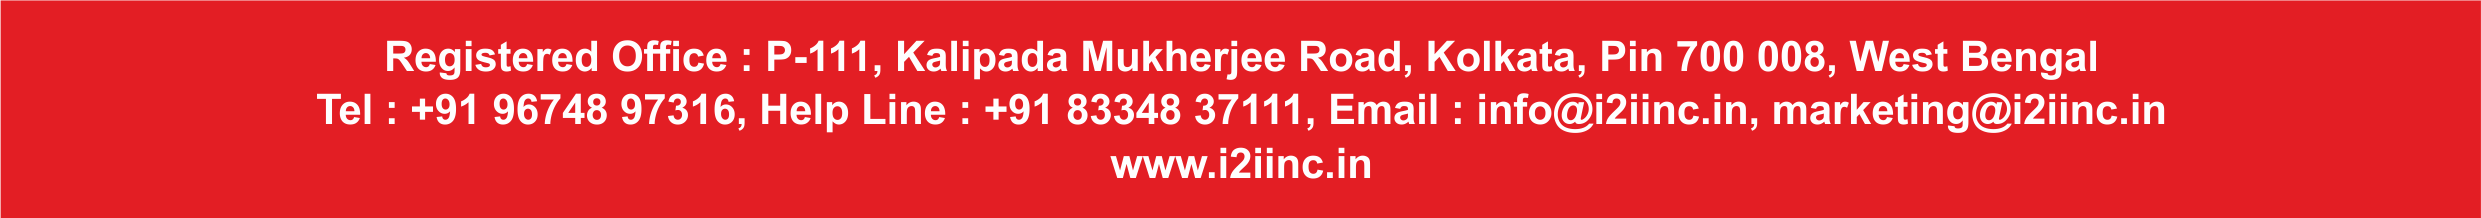
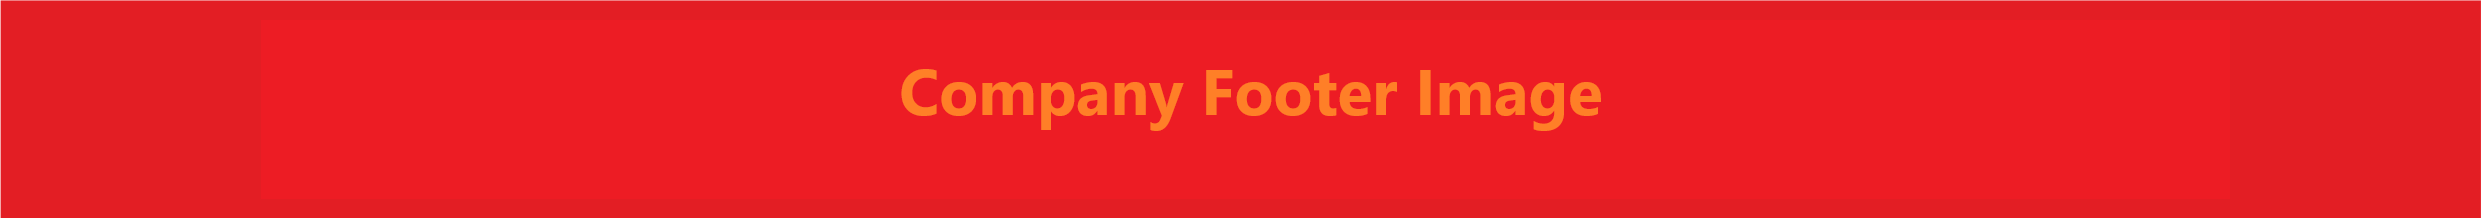
Pre Go - Live changes

Changed region(s): [[0.1241, 0.1651, 0.869, 0.6055], [0.4345, 0.6606, 0.5586, 0.8257]]

diff --git a/Bill_Software/corporate/business/app/Update_Designation.aspx.cs b/Bill_Software/corporate/business/app/Update_Designation.aspx.cs
@@ -145,7 +145,7 @@ namespace Bill_Software.corporate.business.app
             if (lblEmpId.Text != "")
             {
 
-                string query = "update tbl_Designation set Home=@Home,home1=@home1,settings=@settings,Dashboard=@Dashboard,Data_Mastering=@Data_Mastering,master_State=@master_State,master_city=@master_city,AddIndustry=@AddIndustry,PaymentPhase=@PaymentPhase,AddPrimaryService=@AddPrimaryService,PrimaryServiceTerms=@PrimaryServiceTerms,productparent=@productparent,product_master=@product_master,newproductparent=@newproductparent,newproduct_master=@newproduct_master,Service_master=@Service_master,Vat_master=@Vat_master,Service_Tax_Master=@Service_Tax_Master,Expenses_Head=@Expenses_Head,Vendor=@Vendor,New_vendor=@New_vendor,View_vendor=@View_vendor,Delete_vendor=@home1,Purches_exting_vendor=@Purches_exting_vendor,View_purches=@View_purches,seartch_purtch=@seartch_purtch,Delete_purtches=@Delete_purtches,Purchess_payment=@Purchess_payment,add_payment_purchess=@add_payment_purchess,View_purchess_payment=@View_purchess_payment,Seartch_purchess_payments=@Seartch_purchess_payments,Delete_purches_payment=@Delete_purches_payment,Client=@Client,New_client=@New_client,View_client=@View_client,Delete_client=@Delete_client,Representative=@Representative,AddFactory=@AddFactory,Quotatio=@Quotatio,Create_quotation=@Create_quotation,View_quotation=@View_quotation,Seartch_quotation=@Seartch_quotation,Delete_Quotation=@Delete_Quotation,Edit_quatation=@Edit_quatation,challan=@challan,add_chalan=@add_chalan,View_chalan=@View_chalan,seartch_chalan=@seartch_chalan,Delete_chalan=@Delete_chalan,proforma=@proforma,Add_proforma=@Add_proforma,View_proforma=@View_proforma,Seartch_proforma=@Seartch_proforma,Delete_proforma=@Delete_proforma,Invoice=@Invoice,Add_invoice=@Add_invoice,View_Invoice=@View_Invoice,seartch_invoice=@seartch_invoice,Delete_invoice=@Delete_invoice,Block_invoice=@Block_invoice,Payment=@Payment,add_payment=@add_payment,View_payment=@View_payment,seartch_payment=@seartch_payment,Delete_payment=@Delete_payment,Epencess=@Epencess,general_expences=@general_expences,patty_cash_expences=@patty_cash_expences,view_expencess_head=@view_expencess_head,view_patty_cash_expenses=@view_patty_cash_expenses,Delete_general_expencess=@Delete_general_expencess,Delete_patty_cash_expenses=@Delete_patty_cash_expenses,Reports=@Reports,Payment_due=@Payment_due,Purchess_due=@Purchess_due,PurchaseRequisition=@PurchaseRequisition,RequisitionManual=@RequisitionManual,RequisitionManualView=@RequisitionManualView,RequisitionManualSearch=@RequisitionManualSearch,RequisitionManualDelete=@RequisitionManualDelete,AddUser=@AddUser,Users=@Users,ViewUser=@ViewUser,SetQuatation=@SetQuatation,ProformaMail=@ProformaMail,InvoiceMail=@InvoiceMail,PaymentMail=@PaymentMail,FinalPaymentInvoice=@FinalPaymentInvoice,PaymentsDue=@PaymentsDue where User_Id=@User_Id";
+                string query = "update tbl_Designation set Home=@Home,home1=@home1,settings=@settings,Dashboard=@Dashboard,Data_Mastering=@Data_Mastering,master_State=@master_State,master_city=@master_city,AddIndustry=@AddIndustry,PaymentPhase=@PaymentPhase,AddPrimaryService=@AddPrimaryService,PrimaryServiceTerms=@PrimaryServiceTerms,productparent=@productparent,product_master=@product_master,newproductparent=@newproductparent,newproduct_master=@newproduct_master,Service_master=@Service_master,Vat_master=@Vat_master,Service_Tax_Master=@Service_Tax_Master,Expenses_Head=@Expenses_Head,Vendor=@Vendor,New_vendor=@New_vendor,View_vendor=@View_vendor,Delete_vendor=@Delete_vendor,Purches_exting_vendor=@Purches_exting_vendor,View_purches=@View_purches,seartch_purtch=@seartch_purtch,Delete_purtches=@Delete_purtches,Purchess_payment=@Purchess_payment,add_payment_purchess=@add_payment_purchess,View_purchess_payment=@View_purchess_payment,Seartch_purchess_payments=@Seartch_purchess_payments,Delete_purches_payment=@Delete_purches_payment,Client=@Client,New_client=@New_client,View_client=@View_client,Delete_client=@Delete_client,Representative=@Representative,AddFactory=@AddFactory,Quotatio=@Quotatio,Create_quotation=@Create_quotation,View_quotation=@View_quotation,Seartch_quotation=@Seartch_quotation,Delete_Quotation=@Delete_Quotation,Edit_quatation=@Edit_quatation,challan=@challan,add_chalan=@add_chalan,View_chalan=@View_chalan,seartch_chalan=@seartch_chalan,Delete_chalan=@Delete_chalan,proforma=@proforma,Add_proforma=@Add_proforma,View_proforma=@View_proforma,Seartch_proforma=@Seartch_proforma,Delete_proforma=@Delete_proforma,Invoice=@Invoice,Add_invoice=@Add_invoice,View_Invoice=@View_Invoice,seartch_invoice=@seartch_invoice,Delete_invoice=@Delete_invoice,Block_invoice=@Block_invoice,Payment=@Payment,add_payment=@add_payment,View_payment=@View_payment,seartch_payment=@seartch_payment,Delete_payment=@Delete_payment,Epencess=@Epencess,general_expences=@general_expences,patty_cash_expences=@patty_cash_expences,view_expencess_head=@view_expencess_head,view_patty_cash_expenses=@view_patty_cash_expenses,Delete_general_expencess=@Delete_general_expencess,Delete_patty_cash_expenses=@Delete_patty_cash_expenses,Reports=@Reports,Payment_due=@Payment_due,Purchess_due=@Purchess_due,PurchaseRequisition=@PurchaseRequisition,RequisitionManual=@RequisitionManual,RequisitionManualView=@RequisitionManualView,RequisitionManualSearch=@RequisitionManualSearch,RequisitionManualDelete=@RequisitionManualDelete,AddUser=@AddUser,Users=@Users,ViewUser=@ViewUser,SetQuatation=@SetQuatation,ProformaMail=@ProformaMail,InvoiceMail=@InvoiceMail,PaymentMail=@PaymentMail,FinalPaymentInvoice=@FinalPaymentInvoice,PaymentsDue=@PaymentsDue where User_Id=@User_Id";
                 SqlParameter[] pram = {
 
                     new SqlParameter("@Home",Home.Text),

diff --git a/Bill_Software/corporate/business/app/View_vendor.aspx.cs b/Bill_Software/corporate/business/app/View_vendor.aspx.cs
@@ -29,7 +29,7 @@ namespace Bill_Software.corporate.business.app
         {
             DbCL.Sqlconnection();
             DbCL.ConnectDb();
-            string cmdstring = "select Vendor_Id,Vendor_Name from tbl_Vendor order by Vendor_Name";
+            string cmdstring = "select Vendor_Id,Vendor_Name,City from tbl_Vendor order by Id desc";
             SqlCommand cmd = new SqlCommand(cmdstring, DbCL.Conn);
             DataList1.DataSource = cmd.ExecuteReader();
             DataList1.DataBind();
@@ -40,7 +40,7 @@ namespace Bill_Software.corporate.business.app
         {
             DbCL.Sqlconnection();
             DbCL.ConnectDb();
-            string cmdstring = "select Vendor_Id,Vendor_Name from tbl_Vendor where Vendor_Name='" + cmbvendor.Text + "'";
+            string cmdstring = "select Vendor_Id,Vendor_Name, City from tbl_Vendor where Vendor_Name='" + cmbvendor.Text + "'";
             SqlCommand cmd = new SqlCommand(cmdstring, DbCL.Conn);
             DataList1.DataSource = cmd.ExecuteReader();
             DataList1.DataBind();

diff --git a/Bill_Software/corporate/business/app/AddUser.aspx.cs b/Bill_Software/corporate/business/app/AddUser.aspx.cs
@@ -28,7 +28,7 @@ namespace Bill_Software.corporate.business.app
         {
             DbCL.Sqlconnection();
             DbCL.ConnectDb();
-            string cmdstring = "select id,User_Id,Password,Name,Phone_no,Email from tbl_login where User_Id not in ('admin')";
+            string cmdstring = "select id,User_Id,Password,Name,Phone_no,Email from tbl_login where User_Id not in ('superadmin', 'uat')";
             SqlCommand cmd = new SqlCommand(cmdstring, DbCL.Conn);
             DataList1.DataSource = cmd.ExecuteReader();
             DataList1.DataBind();
@@ -38,7 +38,7 @@ namespace Bill_Software.corporate.business.app
         protected void btnSave_Click(object sender, EventArgs e)
         {
             string idvalue = getidvalue();
-            idvalue = "EMP00" + idvalue;
+            idvalue = "FLM0" + idvalue;
 
             string query = "insert into tbl_login(User_Id,Password,Name,Phone_no,Email) values (@User_Id,@Password,@Name,@Phone_no,@Email)";
             SqlParameter[] pram = {

diff --git a/Bill_Software/corporate/business/app/ViewUser.aspx.cs b/Bill_Software/corporate/business/app/ViewUser.aspx.cs
@@ -28,8 +28,8 @@ namespace Bill_Software.corporate.business.app
 
         private void Binddata()
         {
-            DbCL.FillCombo(ddlEmpId, "select User_Id from tbl_login where User_Id not in('admin')");
-            string cmdstring = "select id,User_Id,Password,Name,Phone_no,Email from tbl_login where User_Id not in ('admin')";
+            DbCL.FillCombo(ddlEmpId, "select User_Id from tbl_login where User_Id not in('superadmin', 'uat')");
+            string cmdstring = "select id,User_Id,Password,Name,Phone_no,Email from tbl_login where User_Id not in ('superadmin', 'uat')";
             BindDataGrig(cmdstring);
             ddlEmpId.SelectedIndex = 0;
         }

diff --git a/Bill_Software/corporate/business/app/Bill.Master.designer.cs b/Bill_Software/corporate/business/app/Bill.Master.designer.cs
@@ -265,15 +265,6 @@ namespace Bill_Software.corporate.business.app {
         protected global::System.Web.UI.HtmlControls.HtmlGenericControl Delete_vendor;
         
         /// <summary>
-        /// Purchase_price_fixt_new_client control.
-        /// </summary>
-        /// <remarks>
-        /// Auto-generated field.
-        /// To modify move field declaration from designer file to code-behind file.
-        /// </remarks>
-        protected global::System.Web.UI.HtmlControls.HtmlGenericControl Purchase_price_fixt_new_client;
-        
-        /// <summary>
         /// Purches_exting_vendor control.
         /// </summary>
         /// <remarks>

diff --git a/Bill_Software/corporate/business/app/View_client.aspx.cs b/Bill_Software/corporate/business/app/View_client.aspx.cs
@@ -27,7 +27,7 @@ namespace Bill_Software.corporate.business.app
         {
             DbCL.Sqlconnection();
             DbCL.ConnectDb();
-            string cmdstring = "select Client_Id,Client_Name,Industry from tbl_Client order by Client_Id asc";
+            string cmdstring = "select Client_Id,Client_Name,Industry from tbl_Client order by Id desc";
             SqlCommand cmd = new SqlCommand(cmdstring, DbCL.Conn);
             DataList1.DataSource = cmd.ExecuteReader();
             DataList1.DataBind();
